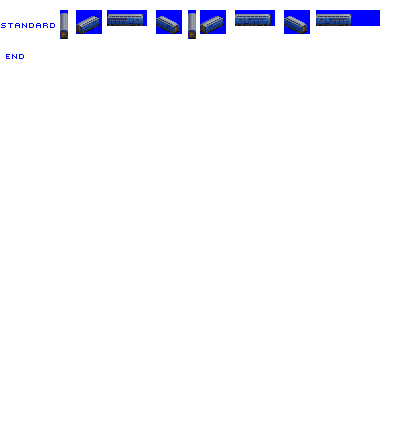
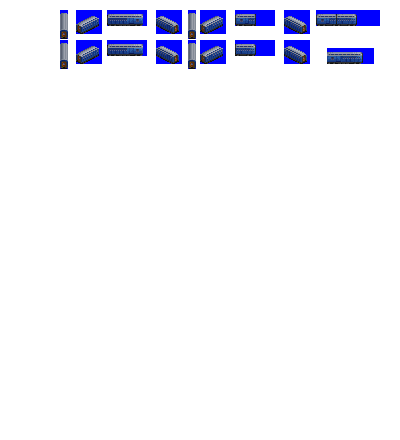
Change: adjust various lengths, capacities etc

diff --git a/src/train.py b/src/train.py
@@ -597,13 +597,14 @@ class CabooseConsistLong(CabooseConsist):
 
 class CombineConsist(WagonConsist):
     """
-    Novelty single-coach with both pax and mail, for use on very small trains, bit of a hack.
+    Novelty articulated coach with both pax and mail, for use on very small trains, bit of a hack.
+    COMBINE CARS CAN’T BE UPGRADED BY AUTO_REPLACE -  FS issue https://bugs.openttd.org/task/6207
     """
     def __init__(self, **kwargs):
         self.base_id = 'combine_car'
         super().__init__(**kwargs)
         self.template = 'train.pynml'
-        self.class_refit_groups = ['mail', 'express_freight']
+        self.class_refit_groups = ['mail', 'express_freight', 'pax']
         self.label_refits_allowed = []
         self.label_refits_disallowed = global_constants.disallowed_refits_by_label['non_freight_special_cases']
         self.autorefit = True
@@ -1187,18 +1188,6 @@ class MailCar(Wagon):
     def __init__(self, **kwargs):
         super().__init__(**kwargs)
         self.capacities_freight = [int(0.5 * capacity) for capacity in self.capacities_mail]
-
-
-class CombineCar(Wagon):
-    """
-    Carriage that offers capacity for both passengers (fixed) and mail / express cargo (refittable)
-    """
-    # this class is sparse - it exists to make special case handling easy by checking class type
-    # combine car needs to set capacity_mail, capacity_freight, and capacity_pax
-    # pax capacity is non-refittable and applied to lead slice of the unit
-    def __init__(self, **kwargs):
-        print("CombineCar depends on slices and should be deprecated")
-        super().__init__(**kwargs)
 
 
 class BoxCar(Wagon):

diff --git a/src/vehicles/combine_cars.py b/src/vehicles/combine_cars.py
@@ -1,5 +1,5 @@
 import global_constants
-from train import CombineConsist, CombineCar
+from train import CombineConsist, Wagon
 
 def main():
     #--------------- pony ----------------------------------------------------------------------
@@ -7,15 +7,21 @@ def main():
                            roster = 'pony',
                            base_numeric_id = 1000,
                            wagon_generation = 1,
-                                        intro_date = 1860,
+                           intro_date = 1860,
                            vehicle_life = 40)
 
-    consist.add_unit(CombineCar(consist = consist,
+    consist.add_unit(Wagon(consist = consist,
                             capacity_mail = 20,
                             capacity_freight = 12,
-                            capacity_pax = 30,
                             weight = 34,
-                            vehicle_length = 8))
+                            vehicle_length = 5,
+                            spriterow_num = 0))
+
+    consist.add_unit(Wagon(consist = consist,
+                            capacity_pax = 40,
+                            weight = 34,
+                            vehicle_length = 5,
+                            spriterow_num = 1))
 
     consist.add_model_variant(intro_date=0,
                            end_date=global_constants.max_game_date)

diff --git a/src/vehicles/hopper_cars.py b/src/vehicles/hopper_cars.py
@@ -11,7 +11,7 @@ def main():
                             vehicle_life = 40)
 
     consist.add_unit(Wagon(consist = consist,
-                           capacity_freight = 30,
+                           capacity_freight = 20,
                            weight = 10,
                            vehicle_length = 4))
 
@@ -32,7 +32,7 @@ def main():
                             vehicle_life = 40)
 
     consist.add_unit(Wagon(consist = consist,
-                           capacity_freight = 55,
+                           capacity_freight = 40,
                            weight = 20,
                            vehicle_length = 8))
 
@@ -53,8 +53,8 @@ def main():
                             vehicle_life = 40)
 
     consist.add_unit(Wagon(consist = consist,
-                           capacity_freight = 75,
-                           weight = 27,
+                           capacity_freight = 50,
+                           weight = 25,
                            vehicle_length = 8))
 
     consist.add_model_variant(intro_date=0,

diff --git a/src/vehicles/little_bear.py b/src/vehicles/little_bear.py
@@ -4,12 +4,12 @@ from train import EngineConsist, DieselLoco
 consist = EngineConsist(id = 'little_bear',
               base_numeric_id = 280,
               title = 'Little Bear [Diesel]',
-              power = 850,
+              power = 900,
               speed = 85,
               type_base_buy_cost_points = 0, # dibble buy cost for game balance
               type_base_running_cost_points = -28, # dibble run cost for game balance
               vehicle_life = 40,
-              intro_date = 1964)
+              intro_date = 1960)
 
 consist.add_unit(DieselLoco(consist = consist,
                         weight = 54,

diff --git a/src/vehicles/tank_cars.py b/src/vehicles/tank_cars.py
@@ -32,7 +32,7 @@ def main():
                       vehicle_life = 40)
 
     consist.add_unit(Wagon(consist = consist,
-                            capacity_freight = 55,
+                            capacity_freight = 40,
                             weight = 27,
                             vehicle_length = 8))
 
